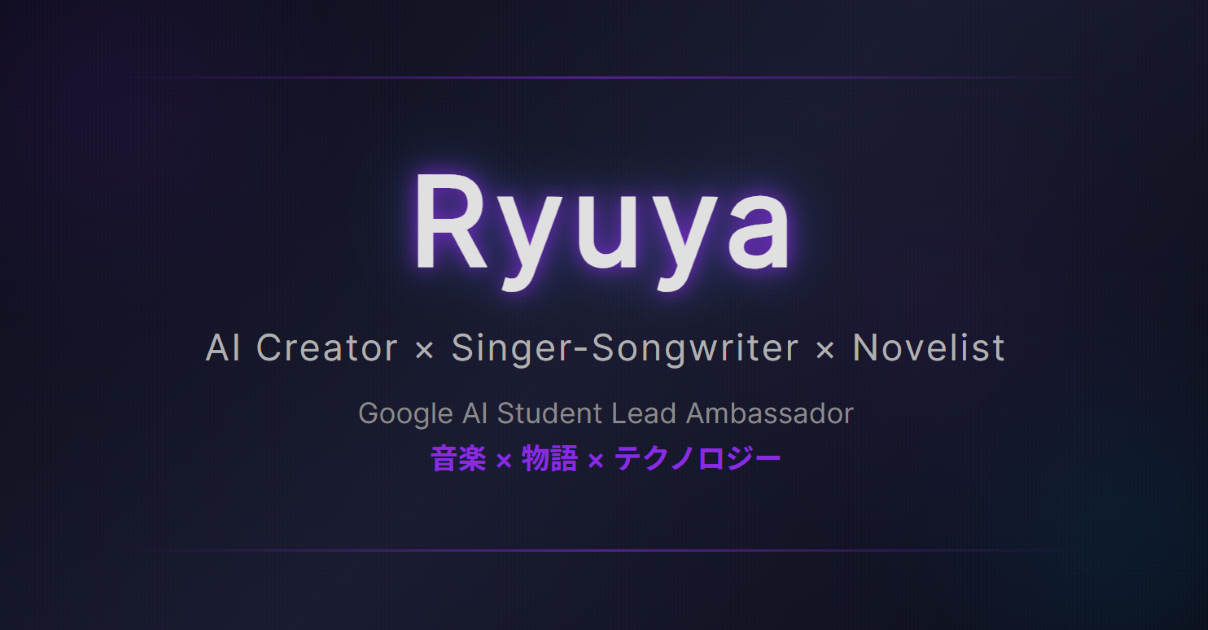
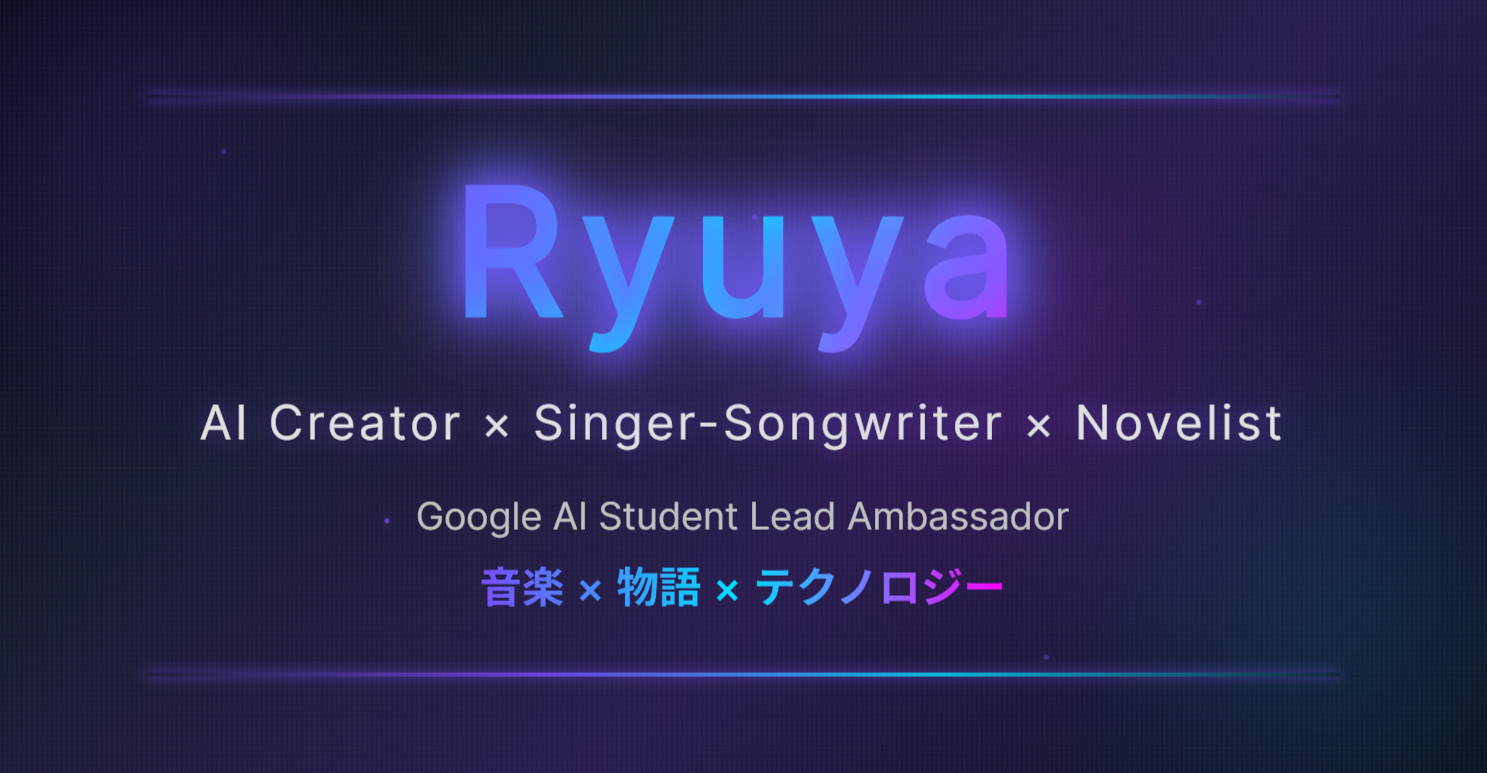
Spotify埋め込みサイズの最適化とOGP更新

diff --git a/generate-ogp.html b/generate-ogp.html
@@ -24,11 +24,11 @@
         .ogp-preview {
             width: 1200px;
             height: 630px;
-            background: linear-gradient(135deg, #0a0a14 0%, #1a1a2e 50%, #0a0a14 100%);
+            background: linear-gradient(135deg, #05050a 0%, #1a1a2e 30%, #2a1a4a 60%, #0a0a14 100%);
             position: relative;
             overflow: hidden;
-            border: 2px solid #8a2be2;
-            box-shadow: 0 0 60px rgba(138, 43, 226, 0.5);
+            border: 3px solid #7c4dff;
+            box-shadow: 0 0 80px rgba(124, 77, 255, 0.6), 0 0 120px rgba(0, 224, 255, 0.3);
         }
 
         /* Background Pattern */
@@ -37,9 +37,31 @@
             width: 100%;
             height: 100%;
             background-image: 
-                repeating-linear-gradient(0deg, transparent, transparent 2px, rgba(138, 43, 226, 0.03) 2px, rgba(138, 43, 226, 0.03) 4px),
-                repeating-linear-gradient(90deg, transparent, transparent 2px, rgba(0, 191, 255, 0.03) 2px, rgba(0, 191, 255, 0.03) 4px);
-            opacity: 0.5;
+                repeating-linear-gradient(0deg, transparent, transparent 2px, rgba(124, 77, 255, 0.05) 2px, rgba(124, 77, 255, 0.05) 4px),
+                repeating-linear-gradient(90deg, transparent, transparent 2px, rgba(0, 224, 255, 0.05) 2px, rgba(0, 224, 255, 0.05) 4px);
+            opacity: 0.6;
+        }
+
+        /* Animated Particles */
+        .particles {
+            position: absolute;
+            width: 100%;
+            height: 100%;
+        }
+
+        .particle-dot {
+            position: absolute;
+            width: 4px;
+            height: 4px;
+            background: #7c4dff;
+            border-radius: 50%;
+            box-shadow: 0 0 10px rgba(124, 77, 255, 0.8);
+            animation: float 8s infinite;
+        }
+
+        @keyframes float {
+            0%, 100% { transform: translateY(0) translateX(0); opacity: 0.3; }
+            50% { transform: translateY(-30px) translateX(20px); opacity: 1; }
         }
 
         /* Gradient Orbs */
@@ -51,27 +73,27 @@
         }
 
         .orb-1 {
-            width: 400px;
-            height: 400px;
-            background: radial-gradient(circle, rgba(138, 43, 226, 0.6) 0%, transparent 70%);
-            top: -100px;
-            left: -100px;
+            width: 500px;
+            height: 500px;
+            background: radial-gradient(circle, rgba(124, 77, 255, 0.7) 0%, transparent 70%);
+            top: -150px;
+            left: -150px;
         }
 
         .orb-2 {
-            width: 350px;
-            height: 350px;
-            background: radial-gradient(circle, rgba(0, 191, 255, 0.5) 0%, transparent 70%);
-            bottom: -80px;
-            right: -80px;
+            width: 450px;
+            height: 450px;
+            background: radial-gradient(circle, rgba(0, 224, 255, 0.6) 0%, transparent 70%);
+            bottom: -100px;
+            right: -100px;
         }
 
         .orb-3 {
-            width: 300px;
-            height: 300px;
-            background: radial-gradient(circle, rgba(138, 43, 226, 0.4) 0%, transparent 70%);
+            width: 350px;
+            height: 350px;
+            background: radial-gradient(circle, rgba(255, 0, 255, 0.5) 0%, transparent 70%);
             top: 50%;
-            right: 10%;
+            right: 15%;
             transform: translateY(-50%);
         }
 
@@ -90,44 +112,54 @@
 
         /* Main Title */
         .title {
-            font-size: 120px;
+            font-size: 140px;
             font-weight: 900;
-            color: #e0e0e0;
+            background: linear-gradient(135deg, #7c4dff 0%, #00e0ff 50%, #ff00ff 100%);
+            -webkit-background-clip: text;
+            -webkit-text-fill-color: transparent;
+            background-clip: text;
             text-shadow: 
-                0 0 20px rgba(138, 43, 226, 0.8),
-                0 0 40px rgba(138, 43, 226, 0.5),
-                0 0 60px rgba(0, 191, 255, 0.3);
+                0 0 30px rgba(124, 77, 255, 0.8),
+                0 0 60px rgba(0, 224, 255, 0.6),
+                0 0 90px rgba(255, 0, 255, 0.4);
             margin-bottom: 30px;
-            letter-spacing: 8px;
+            letter-spacing: 12px;
+            filter: drop-shadow(0 0 20px rgba(124, 77, 255, 0.8));
         }
 
         /* Subtitle */
         .subtitle {
-            font-size: 36px;
-            color: #b0b0b0;
-            margin-bottom: 20px;
-            font-weight: 300;
-            letter-spacing: 2px;
+            font-size: 38px;
+            color: #e0e0e0;
+            margin-bottom: 25px;
+            font-weight: 400;
+            letter-spacing: 3px;
+            text-shadow: 0 0 20px rgba(124, 77, 255, 0.5);
         }
 
         /* Description */
         .description {
-            font-size: 28px;
-            color: #8a8a8a;
-            line-height: 1.6;
+            font-size: 30px;
+            color: #c0c0c0;
+            line-height: 1.8;
             max-width: 900px;
         }
 
         .description .highlight {
-            color: #8a2be2;
-            font-weight: 600;
+            background: linear-gradient(90deg, #7c4dff, #00e0ff, #ff00ff);
+            -webkit-background-clip: text;
+            -webkit-text-fill-color: transparent;
+            background-clip: text;
+            font-weight: 700;
+            font-size: 34px;
         }
 
         /* Decorative Lines */
         .line {
             position: absolute;
-            background: linear-gradient(90deg, transparent, rgba(138, 43, 226, 0.5), transparent);
-            height: 2px;
+            background: linear-gradient(90deg, transparent, rgba(124, 77, 255, 0.8), rgba(0, 224, 255, 0.8), transparent);
+            height: 3px;
+            box-shadow: 0 0 10px rgba(124, 77, 255, 0.8);
         }
 
         .line-top {
@@ -177,6 +209,13 @@
     <div style="max-width: 1400px;">
         <div class="ogp-preview" id="ogp-canvas">
             <div class="bg-pattern"></div>
+            <div class="particles">
+                <div class="particle-dot" style="top: 20%; left: 15%; animation-delay: 0s;"></div>
+                <div class="particle-dot" style="top: 40%; left: 80%; animation-delay: 1s;"></div>
+                <div class="particle-dot" style="top: 70%; left: 25%; animation-delay: 2s;"></div>
+                <div class="particle-dot" style="top: 85%; left: 70%; animation-delay: 0.5s;"></div>
+                <div class="particle-dot" style="top: 30%; left: 50%; animation-delay: 1.5s;"></div>
+            </div>
             <div class="orb orb-1"></div>
             <div class="orb orb-2"></div>
             <div class="orb orb-3"></div>

diff --git a/songs.html b/songs.html
@@ -148,10 +148,10 @@
                             <div class="space-y-8">
                                 <!-- 最新順で表示 -->
                                 <div class="spotify-embed rounded-xl overflow-hidden bg-black/20 backdrop-blur shadow-lg border border-gray-800/50 p-4">
-                                    <iframe data-testid="embed-iframe" style="border-radius:12px" src="https://open.spotify.com/embed/track/4d1s3iGGoYButLTAoHhFsX?utm_source=generator" width="100%" height="352" frameBorder="0" allowfullscreen allow="autoplay; clipboard-write; encrypted-media; fullscreen; picture-in-picture" loading="lazy"></iframe>
+                                    <iframe data-testid="embed-iframe" style="border-radius:12px" src="https://open.spotify.com/embed/track/4d1s3iGGoYButLTAoHhFsX?utm_source=generator" width="100%" height="152" frameBorder="0" allowfullscreen allow="autoplay; clipboard-write; encrypted-media; fullscreen; picture-in-picture" loading="lazy"></iframe>
                                 </div>
                                 <div class="spotify-embed rounded-xl overflow-hidden bg-black/20 backdrop-blur shadow-lg border border-gray-800/50 p-4">
-                                    <iframe data-testid="embed-iframe" style="border-radius:12px" src="https://open.spotify.com/embed/track/2oTsovrqgCmiMvyb7fNyww?utm_source=generator" width="100%" height="352" frameBorder="0" allowfullscreen allow="autoplay; clipboard-write; encrypted-media; fullscreen; picture-in-picture" loading="lazy"></iframe>
+                                    <iframe data-testid="embed-iframe" style="border-radius:12px" src="https://open.spotify.com/embed/track/2oTsovrqgCmiMvyb7fNyww?utm_source=generator" width="100%" height="152" frameBorder="0" allowfullscreen allow="autoplay; clipboard-write; encrypted-media; fullscreen; picture-in-picture" loading="lazy"></iframe>
                                 </div>
                             </div>
                         </div>

diff --git a/css/style.css b/css/style.css
@@ -1615,3 +1615,53 @@ button:focus-visible {
     }
 }
 
+
+/* Spotify Embed Responsive Sizing */
+.spotify-embed {
+    max-width: 100%;
+    margin: 0 auto;
+}
+
+.spotify-embed iframe {
+    width: 100%;
+    height: 152px;
+    min-height: 152px;
+    max-height: 152px;
+}
+
+/* Responsive adjustments for Spotify embeds */
+@media (max-width: 640px) {
+    .spotify-embed {
+        padding: 0.75rem !important;
+    }
+    
+    .spotify-embed iframe {
+        height: 152px;
+    }
+}
+
+@media (min-width: 641px) and (max-width: 768px) {
+    .spotify-embed iframe {
+        height: 152px;
+    }
+}
+
+@media (min-width: 769px) and (max-width: 1024px) {
+    .spotify-embed iframe {
+        height: 152px;
+    }
+}
+
+@media (min-width: 1025px) {
+    .spotify-embed iframe {
+        height: 152px;
+    }
+}
+
+/* Ensure proper spacing on mobile */
+@media (max-width: 768px) {
+    .space-y-8 > * + * {
+        margin-top: 1.5rem !important;
+    }
+}
+
